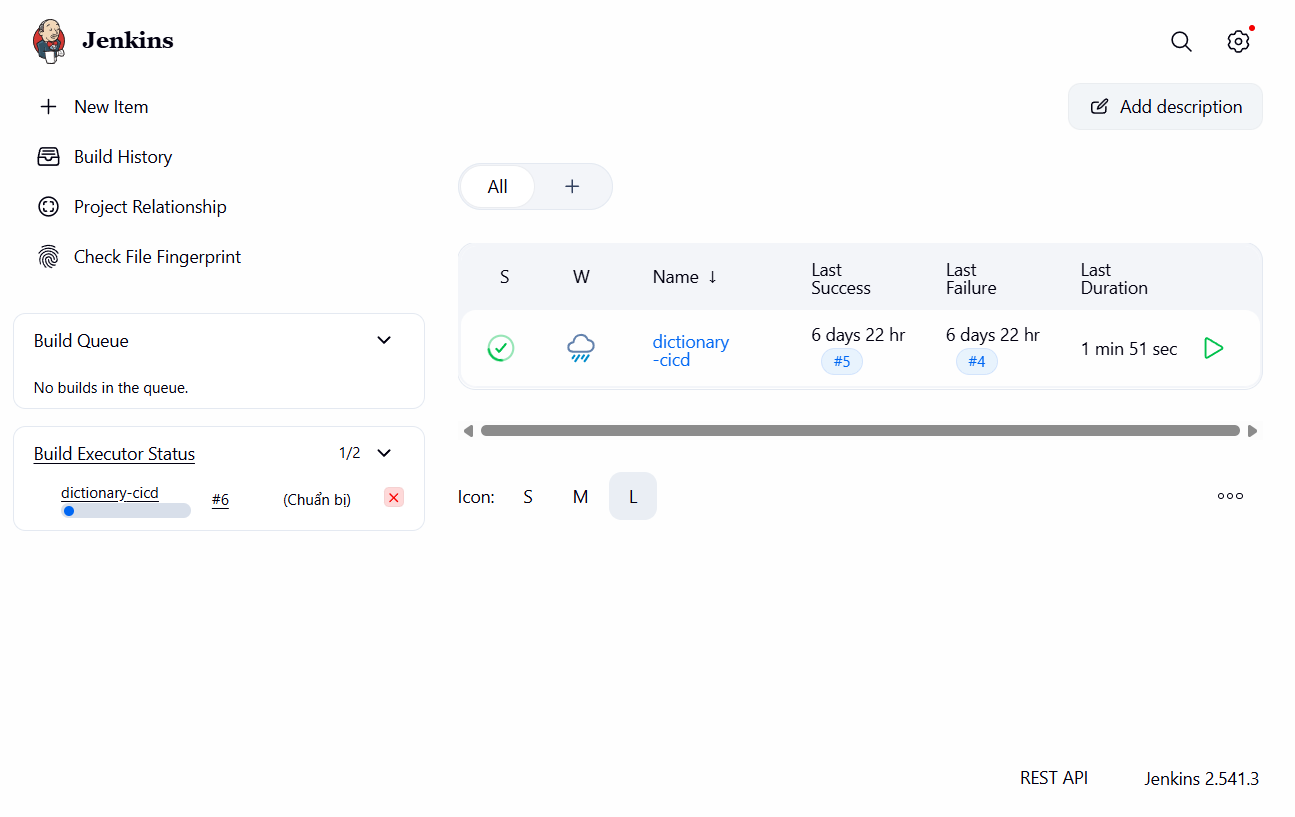
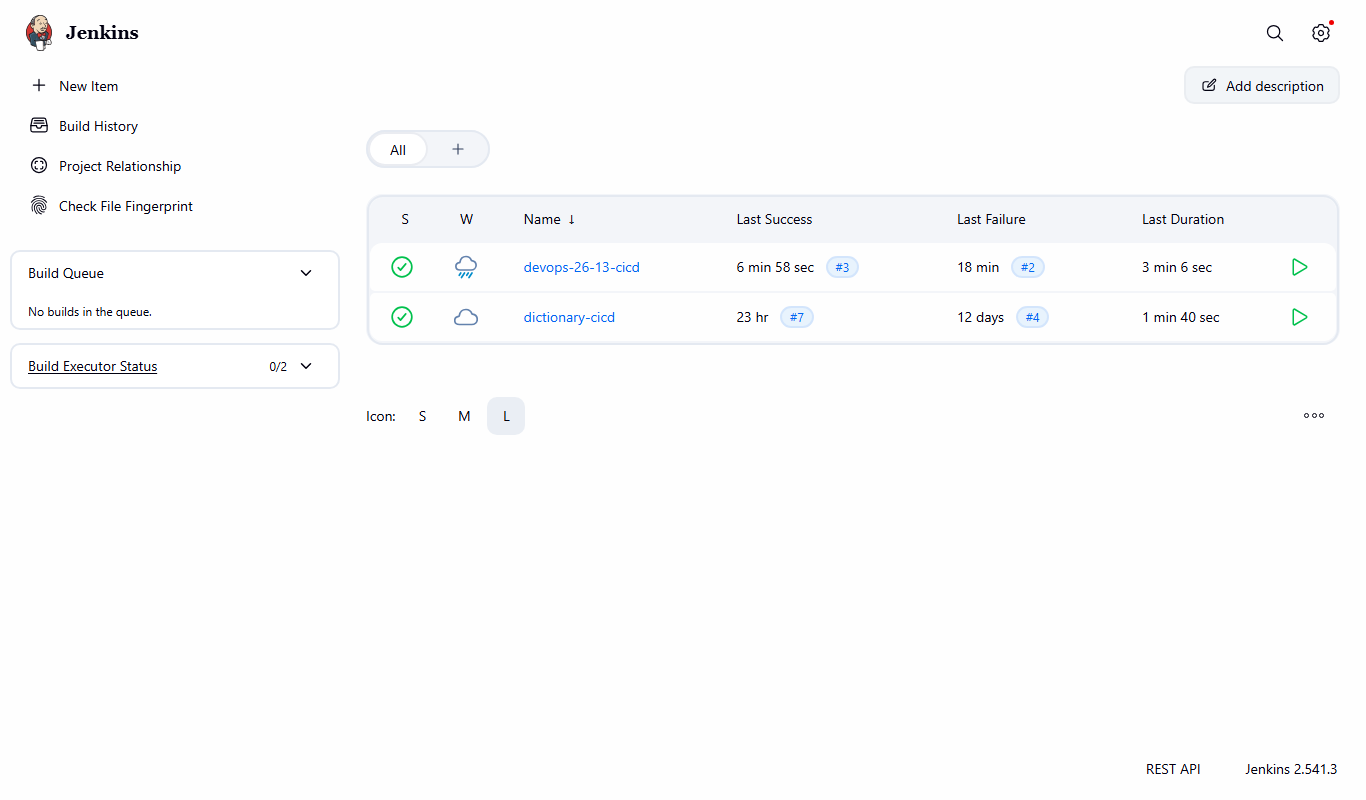
Doi Jenkins CI/CD sang du an DevOPS-26-13: build #3 SUCCESS
README: viet lai Phu luc A cho DevOPS-26-13 (job devops-26-13-cicd, build #3, Jenkins tai cong 8090, 8/8 smoke test, 4 su co da xu ly).

Anh: gop toan bo ve image_toan/, xoa 5 anh dictionary-app-5, them 8 anh Jenkins/app/API moi.

diff --git a/README.md b/README.md
@@ -130,124 +130,145 @@ App chạy tại `http://localhost:8080`.
 ### 2.4. Source code trên GitHub
 
 `git init` → commit → push: https://github.com/phuoctoan102334/giuaky
-
 ---
 
-## Phụ lục A — CI/CD dự án dictionary-app-5 bằng Jenkins (làm lại & chụp ảnh ngày 10/10/2026)
+## Phụ lục A — CI/CD dự án DevOPS-26-13 bằng Jenkins (build #3, 15/10/2026)
 
-Mục này ghi lại **toàn bộ quy trình CI/CD đã thực hiện thật** cho dự án `dictionary-app-5`
-(React 18 + Vite + Express + Postgres 16), kiểm chứng lại từ đầu bằng **build Jenkins #6 - SUCCESS**
-và chụp ảnh từng bước. Nội dung cũ của README ở trên được giữ nguyên.
+Mục này ghi lại **toàn bộ quy trình CI/CD đã thực hiện thật** cho repo môn học
+`DevOPS-26-13` — ứng dụng quản lý sinh viên gồm `backend` (Spring Boot 3.4.1 / Java 21),
+`frontend` (nginx) và `database` (SQL Server 2022), điều phối bằng `docker-compose.yml`.
+Kết quả nghiệm thu là **build Jenkins #3 — SUCCESS** (15/10/2026, 3 phút 06 giây),
+ảnh chụp từng bước nằm trong `image_toan/`.
 
 ### A.1. Tổng quan pipeline
 
-Jenkins chạy trong container trên chính laptop, deploy ngược ra laptop qua `/var/run/docker.sock`.
-Pipeline gồm 6 stage:
-
-| Stage | Việc làm |
+| Stage | Nội dung |
 |---|---|
-| Chuẩn bị | Tính tag image theo commit SHA, `docker login` GHCR, tạo builder buildx đa kiến trúc |
-| 1. BUILD | Build bản native `linux/amd64` bằng cache trên registry, nạp vào Docker local để test |
-| 2. TEST | Chạy `scripts/smoke-test.sh` (8 kiểm tra) trên image vừa build |
-| 3. PUSH | Build đa kiến trúc `linux/amd64,linux/arm64`, push tag `:SHA` + `:latest` lên GHCR |
-| 4. PULL | Xóa bản local, pull lại từ GHCR để kiểm chứng đúng image đã push |
-| 5. DEPLOY | Deploy stack `dictionary-prod` (web `:3000`, db `:5432`), giữ volume dữ liệu |
-| 6. Kiểm tra sau deploy | Đợi app phản hồi `/api/health` rồi gọi API thật xác nhận |
+| Checkout SCM | Lấy `Jenkinsfile` từ nhánh `master` của repo |
+| Chuẩn bị | Tính tag theo commit, kiểm tra Docker Compose, `docker login ghcr.io` |
+| 1. BUILD | `docker compose -p student-management-system build` → 3 image |
+| 2. TEST | Lên stack tạm → chạy `ci/smoke-test.sh` (8 kiểm tra) → hạ stack |
+| 3. PUSH | Đổi tên và push 6 tag (3 image × `:b618c60` và `:latest`) lên GHCR |
+| 4. PULL | Pull lại đúng image vừa push, đối chiếu Digest, đổi tên về tag compose cần |
+| 5. DEPLOY | `up -d --no-build` → chạy lại 8 smoke test → báo kết quả ở `post` |
 
-Ba nguyên tắc: build một lần cho mỗi kiến trúc (không build lại khi deploy); image đa kiến trúc
-(1 tag chạy được cả PC Intel/AMD lẫn Mac M-series); test trên đúng kiến trúc máy mình trước khi push.
+Mã nguồn pipeline: [`Jenkinsfile`](Jenkinsfile) ·
+kiểm thử: [`ci/smoke-test.sh`](ci/smoke-test.sh)
+
+![Repo GitHub DevOPS-26-13](image_toan/03-github-repo-devops-26-13.png)
 
 ### A.2. Chuẩn bị (làm 1 lần)
 
-1. **Docker Desktop** đã cài và khởi động (kiểm tra: `docker version` → Server `29.7.2`, arch `amd64`).
-2. **Jenkins container** chạy ở `http://localhost:8080` (thư mục `jenkins/` của dự án dictionary-app-5:
-   image Jenkins + mount `/var/run/docker.sock` để điều khiển Docker của laptop).
-3. **Repo GitHub public** `phuoctoan102334/dictionary-app-5`, nhánh `main`, đã có `Jenkinsfile`
-   (pipeline-as-code), `docker-compose.yml` + `docker-compose.prod.yml`, `scripts/smoke-test.sh`:
+1. **Jenkins container** tại `http://localhost:8090` — cố ý rời khỏi 8080 để nhường
+   cổng đó cho backend theo `docker-compose.yml`. Volume `jenkins_jenkins_home` được giữ
+   nguyên nên job và credential không mất.
+
+   ```powershell
+   docker run -d --name jenkins --restart unless-stopped --network jenkins_default `
+     --group-add 0 -p 8090:8080 -p 50000:50000 `
+     -e "JAVA_OPTS=-Djenkins.install.runSetupWizard=false" `
+     -v jenkins_jenkins_home:/var/jenkins_home `
+     -v /run/host-services/docker.proxy.sock:/var/run/docker.sock `
+     jenkins-jenkins
+   ```
+   `--group-add 0` là bắt buộc: socket Docker ở chế độ `660 root:root`, còn user
+   `jenkins` là uid 1000 nên không có quyền ghi nếu thiếu nhóm phụ này.
+
+2. **Credential** id `ghcr-credentials` (kiểu *Username with password*: user = tên GitHub,
+   password = Personal Access Token có quyền `write:packages`). Pipeline gọi bằng
+   `credentials('ghcr-credentials')`.
+
+3. **Job `devops-26-13-cicd`** — kiểu *Pipeline script from SCM*: repo
+   `https://github.com/phuoctoan102334/DevOPS-26-13.git`, nhánh `*/master`,
+   `Jenkinsfile` ở thư mục gốc, trigger `H/2 * * * *`.
+
+   ![Trang job devops-26-13-cicd, lịch sử build #1–#3](image_toan/02-jenkins-job-devops-26-13.png)
+
+4. **`Jenkinsfile` + `ci/smoke-test.sh`** đã commit và push lên `master`
+   (commit `8dda4a8` rồi `b618c60`).
 
    ![Jenkinsfile trên GitHub](image_toan/07-jenkinsfile-tren-github.png)
 
-4. **Token GitHub (classic)** có quyền `write:packages` + `read:packages` → tạo credential
-   `ghcr-credentials` (loại Username with password) trong Jenkins. Pipeline đăng nhập bằng
-   `--password-stdin` nên token không lộ trong log.
-5. **Job `dictionary-cicd`** trỏ về repo trên, nhánh `*/main`, poll SCM 2 phút/lần
-   (laptop không có IP public nên GitHub không gọi webhook vào được).
+### A.3. Chạy pipeline — build #3 — SUCCESS
 
-   ![Repo GitHub dictionary-app-5](image_toan/03-github-repo-dictionary-app-5.png)
+Trigger build qua Jenkins API (`POST /job/devops-26-13-cicd/build`, crumb kèm
+session cookie). Khi chạy xong, `post` in ra:
 
-### A.3. Chạy lại pipeline từ đầu — build #6 (kết quả thật)
+```
+DEPLOY THANH CONG - ghcr.io/phuoctoan102334/devops-26-13:b618c60 tai http://localhost:3000
+```
 
-Trigger build qua Jenkins API (`POST /job/dictionary-cicd/build`, kèm crumb + session),
-sau đó theo dõi đến khi xong. Dashboard Jenkins lúc build đang chạy:
-
-![Jenkins dashboard, build #6 đang chạy](image_toan/01-jenkins-dashboard.png)
-
-Trang chủ job `dictionary-cicd` (mô tả pipeline, lịch sử #5 SUCCESS / #4 FAILURE từ lần làm trước):
-
-![Trang job dictionary-cicd](image_toan/02-jenkins-job-dictionary-cicd.png)
-
-**Kết quả build #6: SUCCESS** — revision `982506e`, `Took 1 min 39 sec`:
-
-![Build #6 SUCCESS](image_toan/06-jenkins-build-6-thanh-cong.png)
-
-Chi tiết từng stage (trích console log build #6):
-
-- **Chuẩn bị:** `Image: ghcr.io/phuoctoan102334/dictionary-app-5:982506e`,
-  máy `linux/amd64`, sẽ push `linux/amd64,linux/arm64`; `docker login ghcr.io` thành công.
-- **1. BUILD:** `docker buildx build --platform linux/amd64 --tag ...:982506e
-  --cache-from ...:buildcache --cache-to ...:buildcache --load .`
-- **2. TEST:** 8/8 PASS —
-  `health báo đã kết nối DB`, `health đúng 10 từ`, `danh sách từ có 'computer'`,
-  `tra 'computer' ra nghĩa tiếng Việt`, `tra chữ hoa 'APPLE' vẫn ra kết quả`,
-  `từ không tồn tại trả HTTP 404`, `trang chủ trả HTTP 200`, `database có bảng words`.
-- **3. PUSH:** build `linux/amd64,linux/arm64`, push 2 tag `:982506e` + `:latest`
-  lên `ghcr.io` (package để chế độ **private** nên trang Packages public không hiện —
-  bằng chứng là digest ở stage PULL bên dưới).
-- **4. PULL:** `docker pull ghcr.io/phuoctoan102334/dictionary-app-5:982506e` →
-  `Digest: sha256:1be5aa4d354cc1c64f76a8363cd3f9667d0f968077232dc88dc49013f02e779`.
-- **5. DEPLOY:** `docker compose -p dictionary-prod -f docker-compose.yml
-  -f docker-compose.prod.yml up -d` → `dictionary-prod-web-1 Running`,
-  `dictionary-prod-db-1 Healthy` (volume dữ liệu được giữ, không `down -v`).
-- **6. Kiểm tra sau deploy:** `App sẵn sàng sau 1s`, gọi thật `/api/health` và
-  `/api/define/computer` đều trả kết quả → `THÀNH CÔNG, Ứng dụng: http://localhost:3000`.
-
-Ứng dụng sau deploy (tra từ `apple` → `quả táo`, Database đã kết nối 10 từ):
-
-![App dictionary chạy ở cổng 3000](image_toan/04-app-dictionary-chay-o-cong-3000.png)
-
-![API health connected 10 từ](image_toan/05-api-health-connected-10-tu.png)
-
-### A.4. Sự cố đã gặp và cách xử lý (lần làm đầu, build #1–#5)
-
-| Sự cố | Cách xử lý |
+| Mục | Giá trị |
 |---|---|
-| Port `:3000` bị `multica-frontend-1` chiếm, port `:8080` bị `multica-backend-1` chiếm | Được chủ máy đồng ý → stop container multica, chạy stack dict ở port thay thế lúc thử nghiệm |
-| DNS chập chờn (AdGuard `94.140.14.14`): build #1 rớt ở `docker login`, #2 rớt ở `auth.docker.io`, #3 rớt ở `registry-1.docker.io`, #4 rớt ở `imagetools inspect ghcr.io` | Không đổi được DNS (máy không có quyền admin) → chạy lại build đến khi mạng ổn; build #5 SUCCESS toàn pipeline |
-| Lần ghi tài liệu này (10/10): Docker Desktop chưa khởi động, Brave CDP chưa bật | Khởi động Docker Desktop, mở Brave profile riêng với `--remote-debugging-port=9222` (không đụng phiên Brave của người dùng) |
-| Jenkins API báo `403 No valid crumb` khi trigger build | Crumb phải đi kèm session cookie → dùng `WebRequestSession`: GET crumb rồi POST kèm header `Jenkins-Crumb` trong cùng session |
-| GHCR package 401 khi xem ẩn danh / `gh` thiếu scope `read:packages` | Package đang ở chế độ private — kiểm chứng bằng digest lúc PULL trong console log thay vì xem web |
+| Job / Build | `devops-26-13-cicd` / **#3** |
+| Thời điểm | 14:23:52, ngày 15/10/2026 (giờ +07) |
+| Thời gian chạy | **3 phút 06 giây** |
+| Trạng thái | SUCCESS (dấu tích xanh) |
+| Revision | `b618c6009aa30a5e118348487333f9311999c6be` |
+| Commit | “Smoke test: dung host.docker.internal khi chay trong Jenkins container” |
+| Image và digest | `…-backend` `d99a5eaaf076…`, `…-frontend` `62449a8c681f…`, `…-database` `b01a64981051…` |
 
-Lưu ý bảo mật: Jenkins local hiện chạy chế độ mở (Unsecured, không cần đăng nhập —
-build #6 hiển thị `Started by anonymous user`). Ổn cho lab trên laptop cá nhân;
-nếu expose Jenkins ra mạng ngoài thì phải bật authentication + authorization.
+Kết quả chi tiết:
 
-### A.5. Rollback về bản trước (thay `<sha_cũ>`)
+- **1. BUILD** — 3 image: `backend` 504MB, `database` 2.35GB, `frontend` 73.6MB.
+- **2. TEST — 8/8 PASS**: trang chủ 200 · API qua proxy 200 · API trực tiếp 200 ·
+  `GET /api/students/1` 200 · `GET /api/students/search?name=A` 200 · dữ liệu seed đã nạp ·
+  `database` container healthy · `frontend` container running.
+- **3. PUSH** — push 6 tag (3 image × `:b618c60` + `:latest`) lên GHCR.
+- **4. PULL** — Digest của 3 image khớp hoàn toàn với Digest vừa push.
+- **5. DEPLOY** — `docker compose up -d --no-build`, chạy lại 8 smoke test → 8/8 PASS.
+
+![Kết quả 8/8 smoke test trong console log của build #3](image_toan/08-jenkins-smoke-test-8-8.png)
+
+![Build #3 SUCCESS trên Jenkins](image_toan/06-jenkins-build-3-thanh-cong.png)
+
+Ứng dụng sau deploy:
+
+![Ứng dụng quản lý sinh viên tại cổng 3000](image_toan/04-app-sinh-vien-o-cong-3000.png)
+
+![API /api/students trả JSON](image_toan/05-api-students-json.png)
+
+### A.4. Sự cố đã gặp và cách xử lý (build #1–#2)
+
+| # | Lỗi | Nguyên nhân | Cách xử lý |
+|---|---|---|---|
+| 1 | `exec /opt/mssql-init/entrypoint-init.sh: no such file or directory` | `core.autocrlf=true` khiến file `.sh` trong working tree có CRLF | Thêm `*.sh`, `*.conf`, `Dockerfile`, `*.yml`, `Jenkinsfile` vào `.gitattributes` với `text eol=lf` rồi checkout lại |
+| 2 | `permission denied … unix:///var/run/docker.sock` (build #1) | Socket `660 root:root`, user `jenkins` uid 1000 không thuộc nhóm root | Tạo lại container với `--group-add 0`, kiểm tra bằng `docker version` chạy trong container |
+| 3 | Smoke test `000000` / `404` (build #2) | `localhost` bên trong container Jenkins là chính Jenkins (cũng nghe 8080) | Dùng `host.docker.internal`; `ci/smoke-test.sh` tự nhận diện môi trường (`/.dockerenv` + `getent hosts`) |
+| 4 | `403 No valid crumb` khi gọi API Jenkins | Crumb phải đi kèm session cookie | GET crumb rồi POST build trong cùng `WebRequestSession` / cùng cookie jar |
+
+Lịch sử build: **#1 FAILURE** (18s) → **#2 FAILURE** (6 phút 53 giây) → **#3 SUCCESS** (3 phút 06 giây).
+
+![Dashboard Jenkins với job devops-26-13-cicd](image_toan/01-jenkins-dashboard.png)
+
+### A.5. Rollback về bản trước
 
 ```bash
-IMAGE_TAG=ghcr.io/phuoctoan102334/dictionary-app-5:<sha_cũ> WEB_PORT=3000 DB_PORT=5432 \
-POSTGRES_USER=dictuser POSTGRES_PASSWORD=dictpass POSTGRES_DB=dictionary \
-docker compose -p dictionary-prod \
-  -f docker-compose.yml -f docker-compose.prod.yml up -d
+# Lấy sha cần quay lại
+SHA=$(git rev-parse --short=7 HEAD~1)
+git revert <commit> && git push origin master
+# hoặc chạy lại job với commit cũ:
+curl -X POST -H "Jenkins-Crumb:<crumb>" \
+  "http://localhost:8090/job/devops-26-13-cicd/build?delay=0sec"
 ```
+
+Image đã push lên GHCR luôn gắn với tag `:<sha>` nên có thể deploy lại bản cũ bằng
+`IMAGE_TAG=<sha>` mà không cần build lại.
 
 ### A.6. Danh mục ảnh (`image_toan/`)
 
-| File | Nội dung |
+| Tệp | Nội dung |
 |---|---|
-| `01-jenkins-dashboard.png` | Dashboard Jenkins, build #6 đang chạy stage Chuẩn bị |
-| `02-jenkins-job-dictionary-cicd.png` | Trang chủ job, lịch sử build #5 SUCCESS / #4 FAILURE |
-| `03-github-repo-dictionary-app-5.png` | Repo GitHub public, nhánh `main` |
-| `04-app-dictionary-chay-o-cong-3000.png` | App tra từ điển sau deploy |
-| `05-api-health-connected-10-tu.png` | API `/api/health` trả `connected`, 10 từ |
-| `06-jenkins-build-6-thanh-cong.png` | Build #6 SUCCESS, revision `982506e` |
+| `hinh-41-wsl-ubuntu.png` | WSL, phiên làm việc Ubuntu |
+| `hinh-42-ubuntu-he-thong.png` | Ngày giờ, mạng, ổ đĩa, bộ nhớ của Ubuntu |
+| `hinh-43-ssh-thanh-cong.png` | SSH từ Ubuntu vào Windows thành công |
+| `hinh-45-docker-pull-run.png` | `docker pull alpine`, chạy container `toan` |
+| `hinh-46-docker-exec-tao-file.png` | `docker exec`, tạo và đọc file `hello.txt` |
+| `01-jenkins-dashboard.png` | Dashboard Jenkins tại cổng 8090 |
+| `02-jenkins-job-devops-26-13.png` | Trang job, lịch sử build #1–#3 |
+| `03-github-repo-devops-26-13.png` | Repo GitHub public, nhánh `master` |
+| `04-app-sinh-vien-o-cong-3000.png` | Ứng dụng quản lý sinh viên sau deploy |
+| `05-api-students-json.png` | API `/api/students` trả JSON danh sách |
+| `06-jenkins-build-3-thanh-cong.png` | Build #3 SUCCESS, revision `b618c60` |
 | `07-jenkinsfile-tren-github.png` | File `Jenkinsfile` (pipeline-as-code) trên GitHub |
+| `08-jenkins-smoke-test-8-8.png` | Console log: `KET QUA: 8 PASS / 0 FAIL` |
